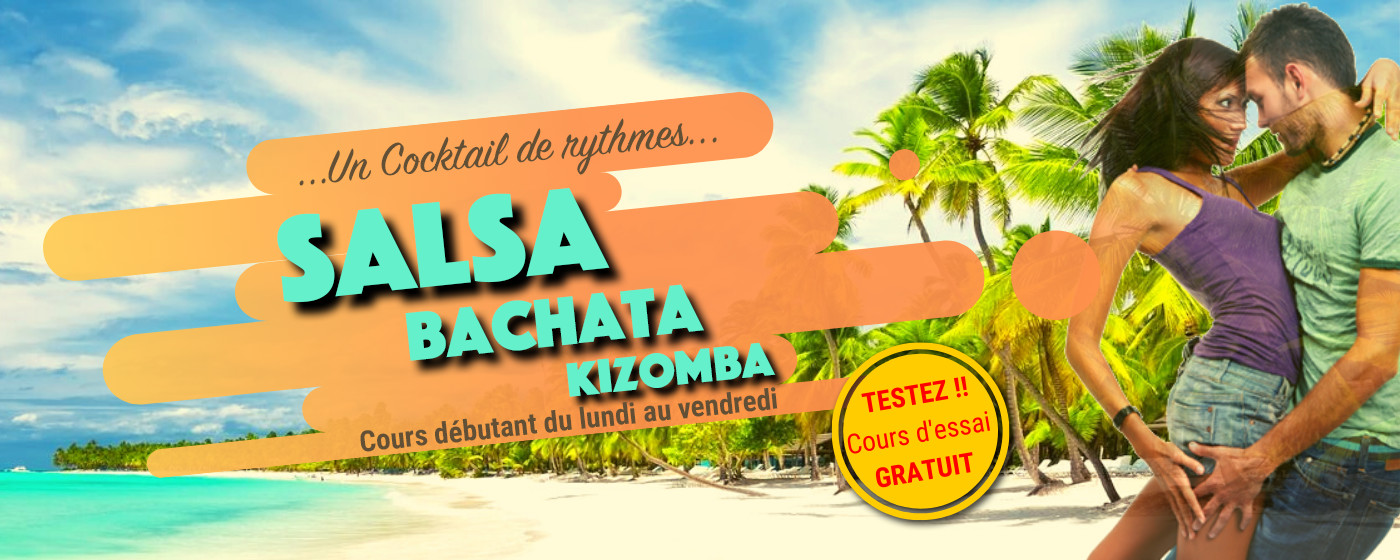
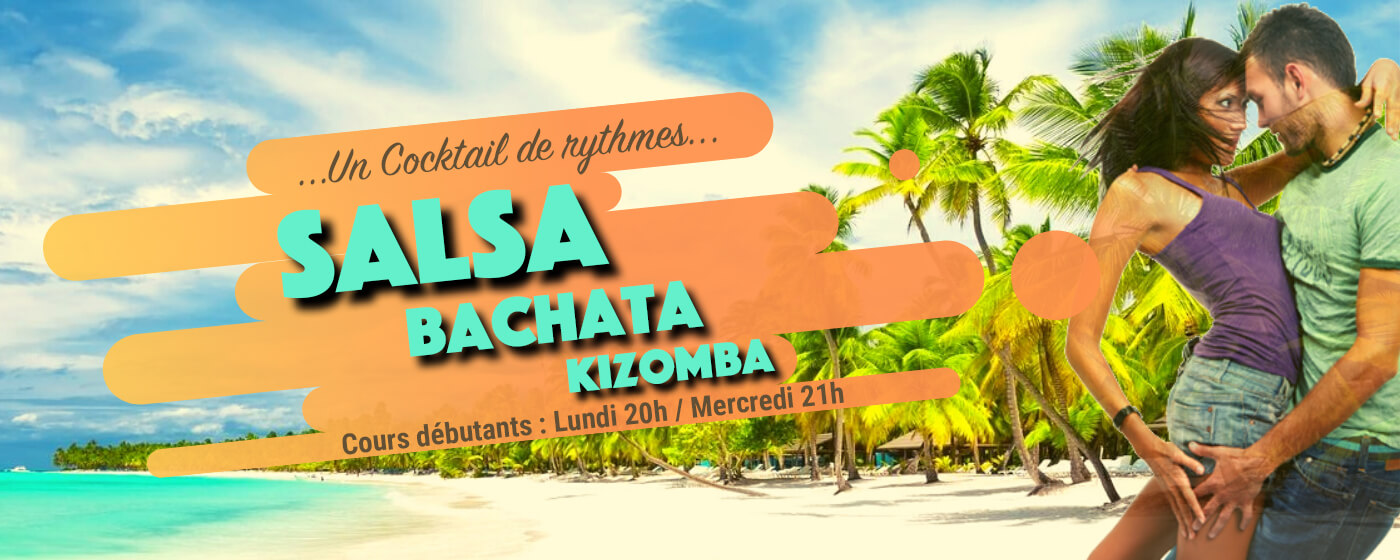
Changer images slider

Changed region(s): [[0.1843, 0.3339, 0.7371, 0.9411]]

diff --git a/_includes/slider.html b/_includes/slider.html
@@ -65,7 +65,7 @@
       // [18, "left", "", "", '/images/slide-18', "/actualites/portes_ouvertes"],
       // [1, "left", "", "", '/images/rentree_janvier_2019', "/actualites/nouveaux_cours_janvier_2019"],
       // [1, "left", "Un cadre chaleureux", "Trois salles", 'images/slide-1'],
-      // [18, "left", "", "", '/images/slide-18', "/actualites/portes_ouvertes"],
+      [18, "left", "", "", '/images/slide-18', "/actualites/portes_ouvertes"],
       // [1, "left", "", "", '/images/rentree_janvier_2019', "/actualites/nouveaux_cours_janvier_2019"],
       // [2, "left", "Émotion et spontanéité", "Le plaisir avant tout", 'images/slide-2']
       [1, "left", "", "", 'images/BS Rock', '/cours/rock'],
@@ -73,16 +73,17 @@
       [1, "left", "", "", 'images/BS Lindy hop', '/cours/lindy'],
       [1, "left", "", "", 'images/BS Tango', '/cours/tango'],
       [1, "left", "", "", 'images/BS WCS', '/cours/westcoastswing'],
+      [1, "left", "", "", 'images/BS Kizomba', '/cours/kizomba'],
     ]);
 
     files = shuffleArray(files);
 
-    // Ajout de slides en premier
-    /*
+   //Ajout de slides en premier
+
     files = [
       [18, "left", "", "", '/images/slide-18', "/actualites/portes_ouvertes"],
     ].concat(files);
-    */
+
 
     for (var i = 0; i < files.length; i++) {
       var file = files[i][0];
